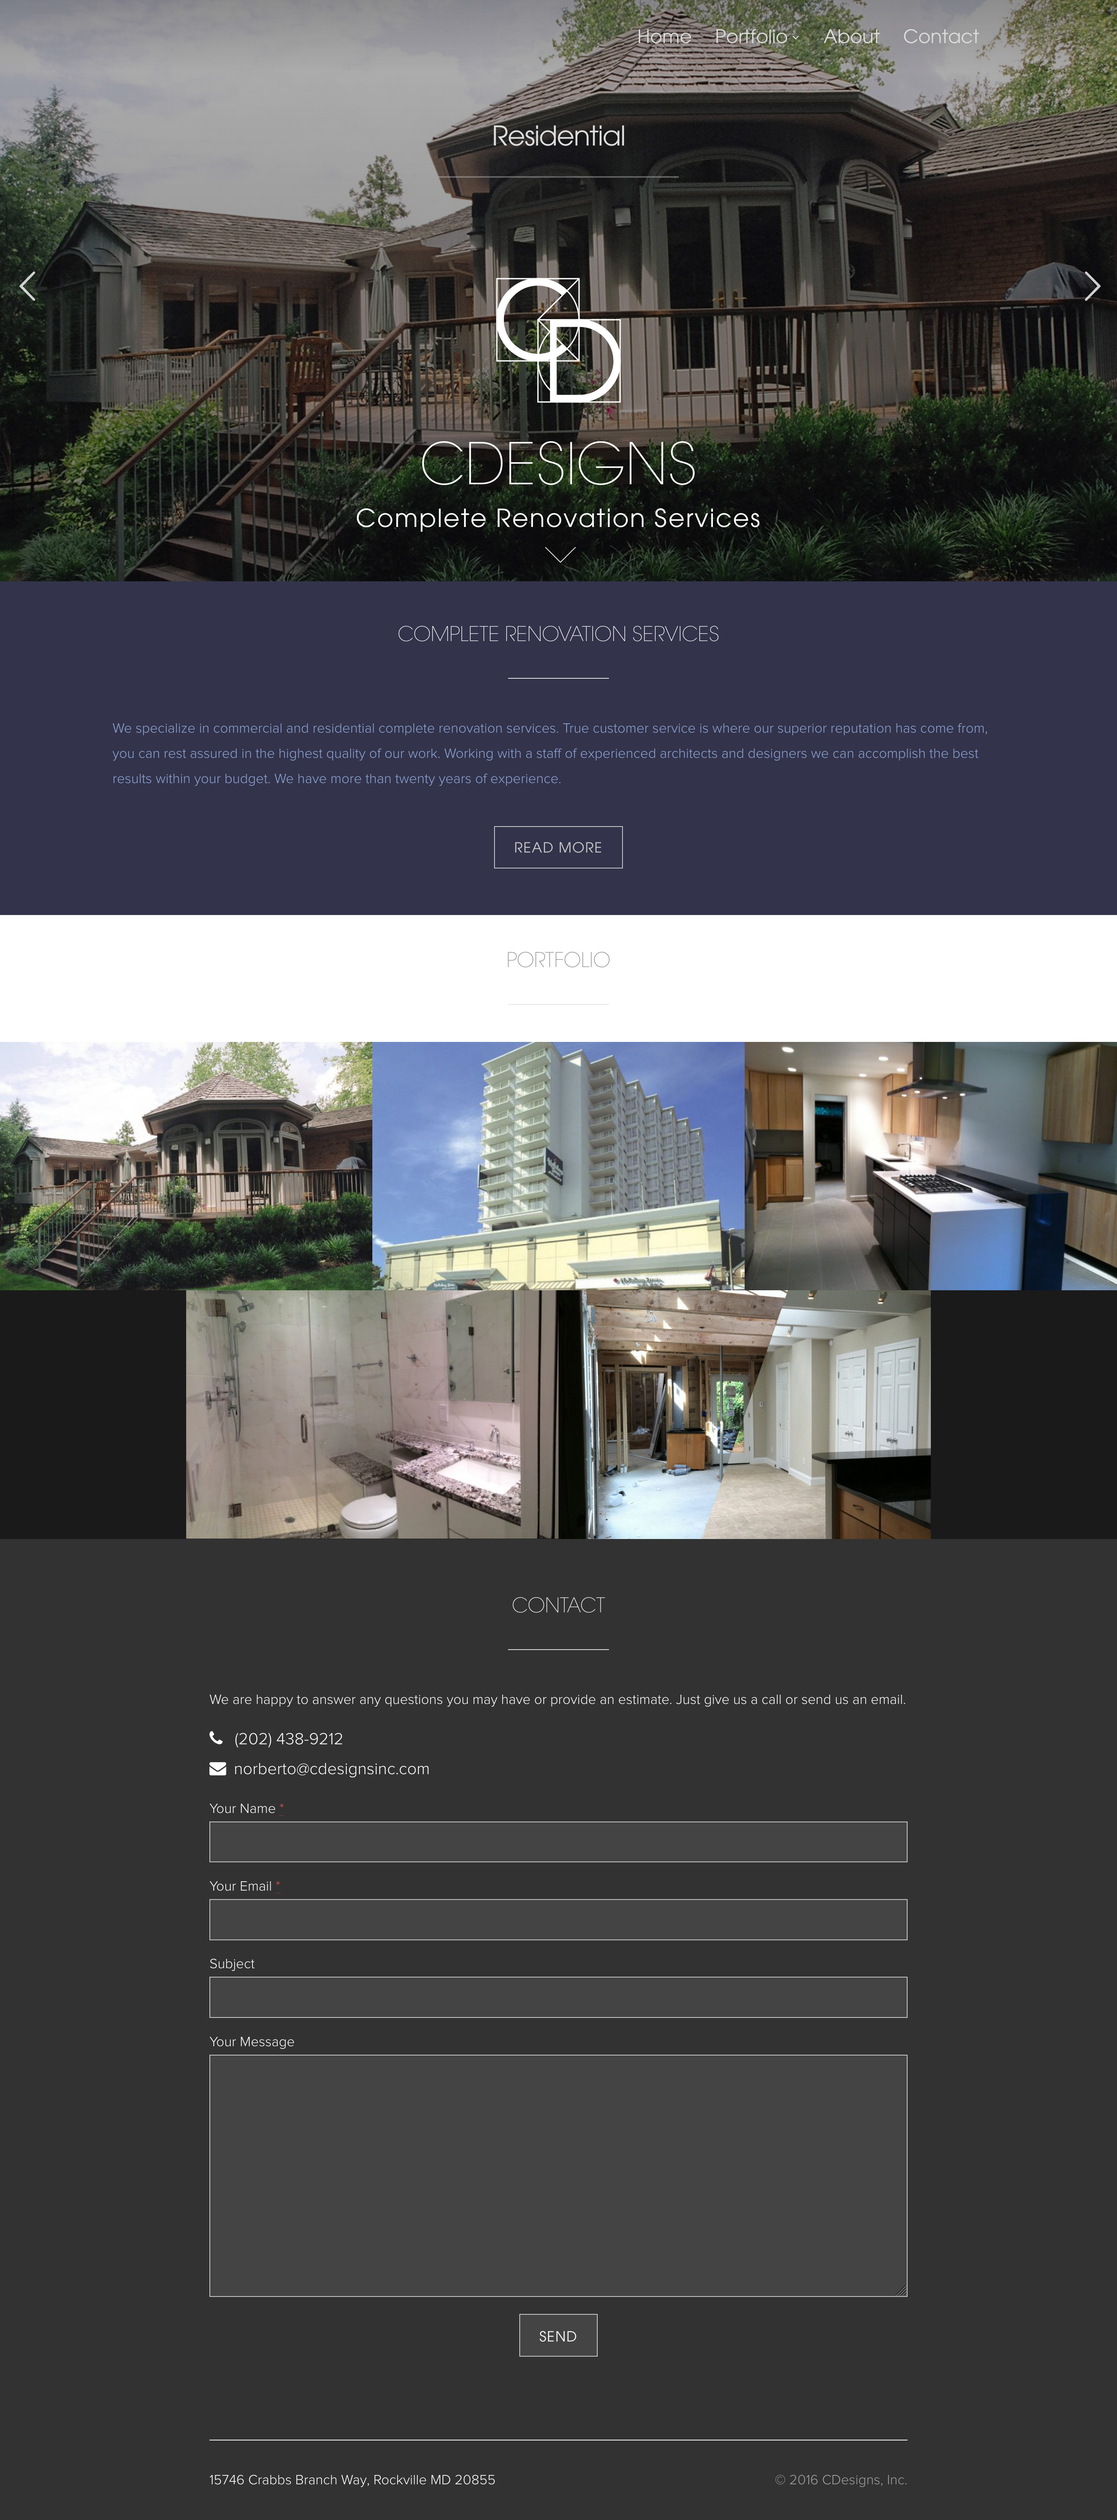
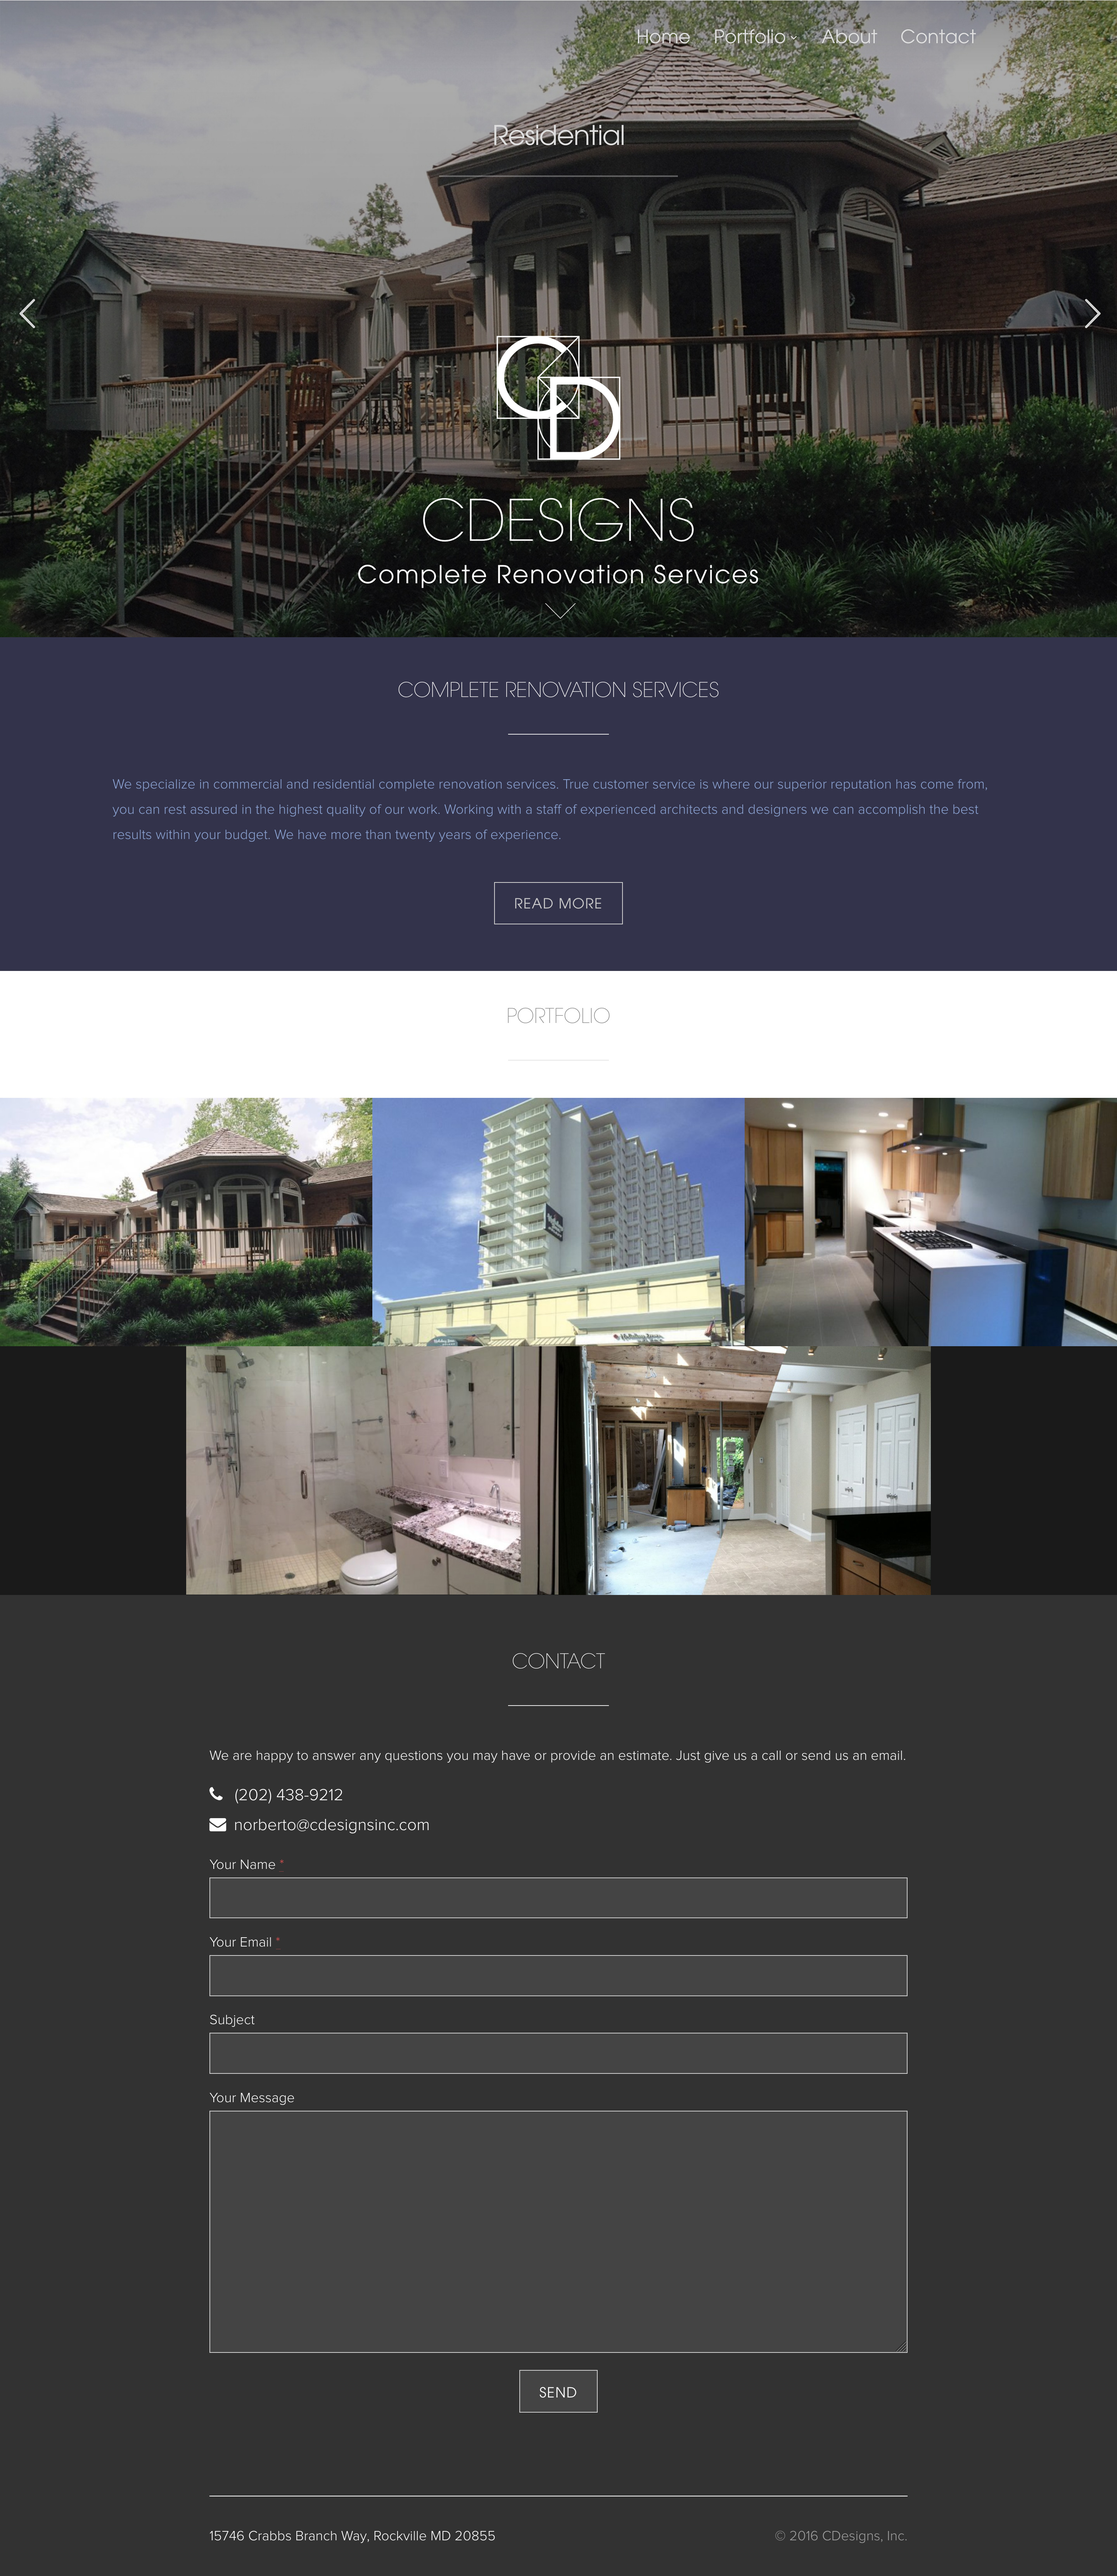
Add portfolio images

diff --git a/dist/index.html b/dist/index.html
@@ -325,7 +325,7 @@
                 <li class="portfolio-gallery__slide portfolio-gallery__slide--03">
                   <div class="portfolio-gallery__slide-inner">
                         <figure class="portfolio-gallery__device portfolio-gallery__device--04"><svg viewBox="0 0 101.2 149.2" class="portfolio-gallery__device-overlay" role="presentation" width="72"><path d="M88.2 0H13C5.8 0 0 5.8 0 13v123.1c0 7.2 5.8 13 12.9 13h75.3c7.2 0 13-5.8 13-13V13c0-7.2-5.9-13-13-13zm6 138.1H7V10.8h87.2v127.3z"/><path d="M45.9 141.3h9.5c1.3 0 2.3 1.1 2.3 2.4 0 1.3-1.1 2.4-2.3 2.4h-9.5c-1.3 0-2.3-1.1-2.3-2.4-.1-1.4 1-2.4 2.3-2.4z"/></svg>
-                          <div class="portfolio-gallery__device-screen portfolio-gallery__device-screen--04">
+                          <div class="portfolio-gallery__device-screen portfolio-gallery__device-screen--04"><img class="portfolio-gallery__device-content" title="CDesigns About" alt="cdesignsinc.com about page" src="images/cdesigns_device-04.png" srcset="images/cdesigns_device-04_xxs.png 128w, images/cdesigns_device-04_xs.png 256w, images/cdesigns_device-04_s.png 512w, images/cdesigns_device-04_m.png 1024w, images/cdesigns_device-04_l.png 1280w, images/cdesigns_device-04_xl.png 1440w" width="72">
                           </div>
                         </figure>
                   </div>
@@ -333,7 +333,7 @@
                 <li class="portfolio-gallery__slide portfolio-gallery__slide--04">
                   <div class="portfolio-gallery__slide-inner">
                         <figure class="portfolio-gallery__device portfolio-gallery__device--05"><svg viewBox="0 0 152.77 109.67" class="portfolio-gallery__device-overlay" role="presentation" width="72"><path d="M139.73 109.67H13a13 13 0 0 1-13-13V13A13 13 0 0 1 13 0h126.73a13 13 0 0 1 13 13v83.63a13 13 0 0 1-13 13.04zm2.28-8.1V8.1H10.76v93.47z"/><circle cx="147.41" cy="61.41" r="1.44"/><circle cx="147.41" cy="51.57" r="1.02"/></svg>
-                          <div class="portfolio-gallery__device-screen portfolio-gallery__device-screen--05">
+                          <div class="portfolio-gallery__device-screen portfolio-gallery__device-screen--05"><img class="portfolio-gallery__device-content" title="CDesigns Kitchen Portfolio" alt="cdesignsinc.com kitchen portfolio page" src="images/cdesigns_device-05.jpg" srcset="images/cdesigns_device-05_xxs.jpg 128w, images/cdesigns_device-05_xs.jpg 256w, images/cdesigns_device-05_s.jpg 512w, images/cdesigns_device-05_m.jpg 1024w, images/cdesigns_device-05_l.jpg 1280w, images/cdesigns_device-05_xl.jpg 1440w" width="72">
                           </div>
                         </figure>
                   </div>
@@ -341,7 +341,7 @@
                 <li class="portfolio-gallery__slide portfolio-gallery__slide--05">
                   <div class="portfolio-gallery__slide-inner">
                         <figure class="portfolio-gallery__device portfolio-gallery__device--06"><svg viewBox="0 0 73.6 152.8" class="portfolio-gallery__device-overlay" role="presentation" width="72"><path d="M0 141.5V11.3C0 5.1 5.1 0 11.3 0h51c6.2 0 11.3 5.1 11.3 11.3v130.2c0 6.2-5.1 11.3-11.3 11.3h-51C5 152.8 0 147.7 0 141.5zM62.6 3.2H11c-4.4 0-8 3.6-8 8v130.3c0 4.4 3.6 8 8 8h51.6c4.4 0 8-3.6 8-8V11.2c-.1-4.4-3.6-8-8-8z"/></svg>
-                          <div class="portfolio-gallery__device-screen portfolio-gallery__device-screen--06">
+                          <div class="portfolio-gallery__device-screen portfolio-gallery__device-screen--06"><img class="portfolio-gallery__device-content" title="CDesigns Contact" alt="cdesignsinc.com contact page" src="images/cdesigns_device-06.png" srcset="images/cdesigns_device-06_xxs.png 128w, images/cdesigns_device-06_xs.png 256w, images/cdesigns_device-06_s.png 512w, images/cdesigns_device-06_m.png 1024w, images/cdesigns_device-06_l.png 1125w, images/cdesigns_device-06_xl.png 1125w" width="72">
                           </div>
                         </figure>
                   </div>
@@ -434,6 +434,7 @@
         <h3 class="bio__heading">Bio</h3>
         <figure class="bio__figure"><img class="bio__img" title="Charles Robertson" alt="Photo of Charles Robertson" src="images/charles-photo.jpg" srcset="images/charles-photo_xxs.jpg 128w, images/charles-photo_xs.jpg 256w, images/charles-photo_s.jpg 512w, images/charles-photo_m.jpg 1024w, images/charles-photo_l.jpg 1280w, images/charles-photo_xl.jpg 1440w" width="72"></figure><p>I am a Front End Developer with 6 years of experience building websites for individuals and small businesses. I have a talent for designing sites that are accessible, performant, with user friendly interfaces. I make static sites in Node.js, e-commerce sites in WordPress, and am have experience building sites in SquareSpace, Wix, and Shopify platforms.</p>
 <p>In 2012 I founded Sediment Press with one business partner. In addition to web design we do graphic design and illustration, from logos to packaging. We have attracted national clients, received grants, been written about in printing publications and invited to speaking events. Among our most notable clients were Turnaround Arts, an education initiative spearheaded by Michelle Obama, The American Society of Civil Engineers, Live Nation, World Food Program USA, and the Del Ray Business Association.</p>
+<p>I want to make the web easier, faster, and prettier.</p>
 
       </div>
     </article>
